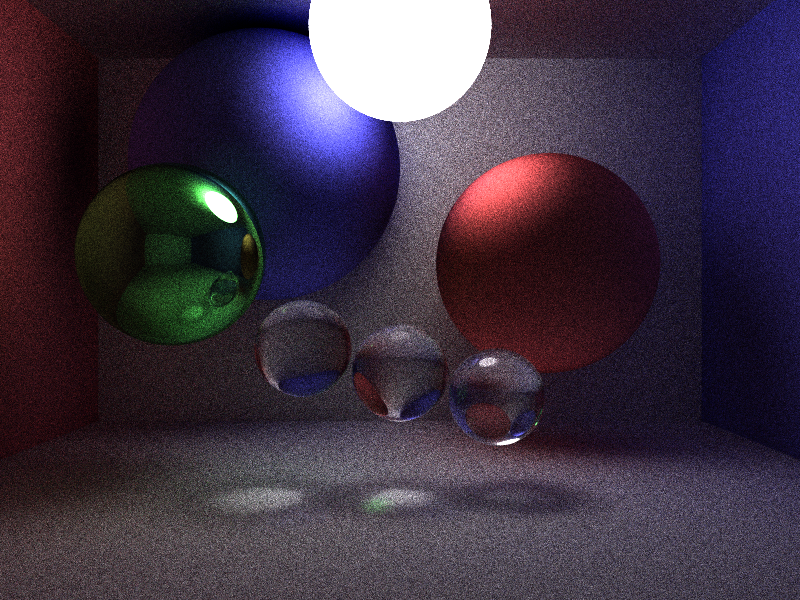
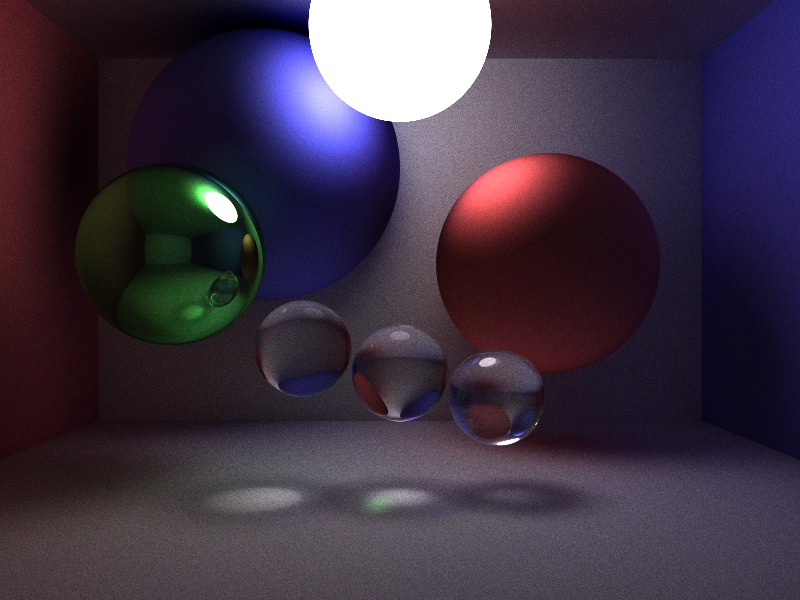
Using fold & reduce_with isntead of collect to reduce memory usage

diff --git a/src/camera.rs b/src/camera.rs
@@ -30,18 +30,24 @@ impl Into<Rgb<u8>> for Three<f64> {
     }
 }
 
+impl<T> Camera<T> {
+    fn empty_image(&self) -> Vec<Three<f64>> {
+        vec![Three::new(0.0, 0.0, 0.0); self.width * self.height]
+    }
+}
+
 impl<T> Camera<T>
 where
     T: Tracer + Sync,
 {
     pub fn render<R: Rng + SeedableRng>(&self) -> RgbImage {
+        let num_pixels = self.width * self.height;
+        let num_rays = num_pixels * self.samples;
         let pb = ProgressBar::new((self.width * self.height * self.samples) as u64).with_style(
             ProgressStyle::default_bar().template("{bar:40} {elapsed_precise}<{eta} {per_sec}"),
         );
         pb.set_draw_rate(1); // NOTE: indicatif drawing is bottleneck with rayon because of high speeds
-        let num_pixels = self.width * self.height;
-        let num_rays = num_pixels * self.samples;
-        let samples: Vec<(usize, usize, Three<f64>)> = (0..num_rays)
+        let colors = (0..num_rays)
             .into_par_iter()
             .map(|ray_idx| {
                 let mut rng = R::seed_from_u64(ray_idx as u64);
@@ -56,12 +62,20 @@ where
                 pb.inc(1);
                 (x, y, color)
             })
-            .collect();
-
-        let mut colors: Vec<Three<f64>> = vec![(0.0, 0.0, 0.0).into(); self.width * self.height];
-        for &(x, y, color) in samples.iter() {
-            colors[y * self.width + x] += color;
-        }
+            .fold(
+                || self.empty_image(),
+                |mut colors, (x, y, color)| {
+                    colors[y * self.width + x] += color;
+                    colors
+                },
+            )
+            .reduce_with(|mut accum, item| {
+                for i in 0..accum.len() {
+                    accum[i] += item[i];
+                }
+                accum
+            })
+            .unwrap();
 
         let mut img = RgbImage::new(self.width as u32, self.height as u32);
         for x in 0..self.width {

diff --git a/src/main.rs b/src/main.rs
@@ -57,7 +57,7 @@ fn main() {
         width: 800,
         height: 600,
         fov: 45.0,
-        samples: 100,
+        samples: 1000,
         tracer: PathTracer::new(scene, 25),
     };
     let img = camera.render::<XorShiftRng>();
